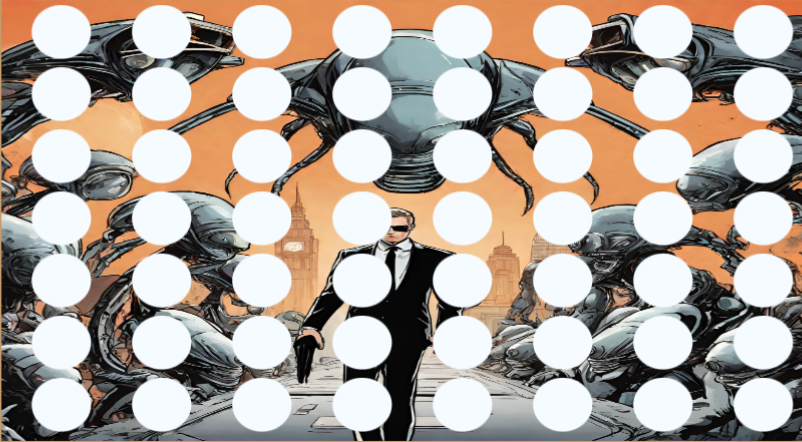
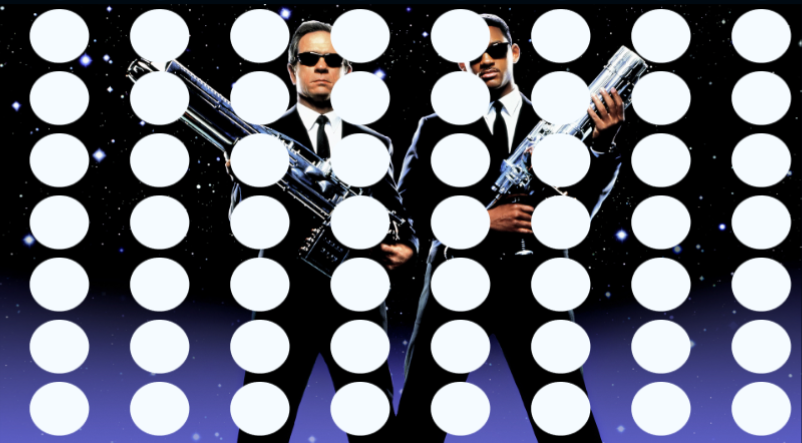
avanzando en el front

diff --git a/TP3/EntregaFinal/juego.html b/TP3/EntregaFinal/juego.html
@@ -118,16 +118,16 @@
                                             <button class="btn-danger" id="reiniciar">Reiniciar el juego</button>
                                             <button class="btn-sucess" id="continuar">No, seguir jugando</button>
                                         </div>
-                                     
                                     </div>
+                                    
                                     <div class="hidden colorblanco modosJuego" id="modoJuegoElegir">
-                                        <h1 class="h1">Elegi que tablero vas a usar</h1>
+                                        <h1 class="h1 resaltado">Elegi que tablero vas a usar</h1>
 
                                         <div class="elegirtableros">
-                                            <div> <h2 class="h2">4 en linea</h2> </div>
-                                            <div> <h2 class="h2">5 en linea</h2> </div>
-                                            <div> <h2 class="h2">6 en linea</h2> </div>
-                                            <div> <h2 class="h2">7 en linea</h2> </div>
+                                            <div> <h2 class="h2 resaltado">4 en linea</h2> </div>
+                                            <div> <h2 class="h2 resaltado">5 en linea</h2> </div>
+                                            <div> <h2 class="h2 resaltado">6 en linea</h2> </div>
+                                            <div> <h2 class="h2 resaltado">7 en linea</h2> </div>
                                         </div>
                                         
                                         <div class="elegirtablerosimg">
@@ -139,11 +139,13 @@
                                        
                                     </div>
                                 <div class="elegirpersonajes colorblanco fichasElegir" id="elegirpersonajes">
-                                        <h1 class="h1">4 en linea Men In Black</h1>
-                                        <div><h1 class="h1">Elijan sus personajes:</h1></div>
+                                        
+                                    <div class="divbackground">
+                                        <h1 class="h1 resaltado">4 en linea Men In Black</h1>
+                                        <div><h1 class="h1 resaltado">Elijan sus personajes:</h1></div>
                                         
                                             <div class="elegirJugador">
-                                                <h1 class="h1 jugador">Jugador 1</h1>
+                                                <h1 class="h1 jugador resaltado">Jugador 1</h1>
                                                 <div class="elegirjugadordiv">
                                                     <div class="imgfichas"><img src="imgs/fichas/men1.png" id="imgFicha" alt="Hombre de negro"></div> 
                                                     <div class="imgfichas"><img src="imgs/fichas/will.png" id="imgFicha" alt="Hombre de negro"></div> 
@@ -153,7 +155,7 @@
                                             </div>
                                         
                                             <div class="elegirJugador">
-                                                <h1 class="h1 jugador">Jugador 2</h1>
+                                                <h1 class="h1 jugador resaltado">Jugador 2</h1>
                                                 <div class="elegirjugadordiv">
                                                     <div class="imgfichas"><img src="imgs/fichas/CirculoAlien1.png" id="imgFicha" alt="Alien"></div> 
                                                     <div class="imgfichas"><img src="imgs/fichas/alien.png" id="imgFicha" alt="Alien"></div>
@@ -161,10 +163,11 @@
                                                     <div class="imgfichas"><img src="imgs/fichas/alienmib.png" id="imgFicha" alt="Alien"> </div>
                                                 </div>    
                                             </div>
-                                            
+                                    </div>
                                 </div>
-                            </div>
-                            
+                                <div class="opacidad">dsklkldfjdskljfdskljf</div>
+                             </div>
+                         </div>   
                         </section>
 
                         

diff --git a/TP3/EntregaFinal/js/juego/Juego.js b/TP3/EntregaFinal/js/juego/Juego.js
@@ -68,8 +68,10 @@ let rutajug1 = "imgs/fichas/men.png";  //imagenes por defecto
 let rutajug2= "imgs/fichas/CirculoAlien1.png";  //imagenes por defecto
 //imagen de tablero
 
-let rutaTablero = "imgs/MIBfondo/imagenTablero.png";
-let colorCanvas = "#805130";
+let rutaTablero = "imgs/MIBfondo/mib.jpg";
+
+// let colorCanvas = "#805130";
+let colorCanvas = "#000911";
 let imagenTablero = new Image();
 imagenTablero.src = rutaTablero;
 
@@ -92,7 +94,7 @@ function drawTablero(){
     let altura = heightTablero;
 
     //dibuja
-   context.drawImage(imagenTablero, 550 - ancho / 2, 280 - altura / 2, ancho, altura);
+    context.drawImage(imagenTablero, 550 - ancho / 2, 280 - altura / 2, ancho, altura);
 }
 
 
@@ -116,10 +118,10 @@ function seleccionarPersonajes(){
                         elegirpersonajes.classList.remove("elegirpersonajes");
                         elegirpersonajes.classList.add("hidden");
                         modoJuego.classList.remove("hidden");
-                        modoJuego.classList.add("elegirpersonajes");
+                        modoJuego.classList.add("tablerojuego");
                         modoJuego.classList.add("modosJuego");
-                        contadortimer.classList.remove("hidden");
-                        contadortimer.classList.add("timer");
+                        // contadortimer.classList.remove("hidden");
+                        // contadortimer.classList.add("timer");
 
                         minutos = 0;
                         segundos = 0;
@@ -144,7 +146,8 @@ function cargarJuego(){
         if(mensaje == " ") {
             timer();
         }
-       
+        contadortimer.classList.remove("hidden");
+        contadortimer.classList.add("timer");
         crearXenLinea(7,6,4,28,70,110,
             20,21,60);
             clearCanvas();
@@ -152,8 +155,6 @@ function cargarJuego(){
             rellenarTablero();
             crearPosicionesFicha();
             crearTodasFichas();
-
-            console.log(fichas.length);
     } );
     
     btn5enlinea.addEventListener('click', function(){
@@ -161,13 +162,15 @@ function cargarJuego(){
         if(mensaje == " ") {
             timer();
         }
+        contadortimer.classList.remove("hidden");
+        contadortimer.classList.add("timer");
         crearXenLinea(8,7,5,25,62,100,15,28,60);
         clearCanvas();
         drawTablero();
         rellenarTablero();
         crearPosicionesFicha();
         crearTodasFichas();
-        console.log(fichas.length);
+
     });
     
     btn6enlinea.addEventListener('click', function (){
@@ -175,13 +178,15 @@ function cargarJuego(){
         if(mensaje == " ") {
             timer();
         }
+        contadortimer.classList.remove("hidden");
+        contadortimer.classList.add("timer");
         crearXenLinea(9,8,6,18,55,88,12,36,55);
         clearCanvas();
         drawTablero();
         rellenarTablero();
         crearPosicionesFicha();
         crearTodasFichas();
-        console.log(fichas.length);
+
     });
     
     btn7enlinea.addEventListener('click', function (){
@@ -189,13 +194,14 @@ function cargarJuego(){
         if(mensaje == " ") {
             timer();
         }
+        contadortimer.classList.remove("hidden");
+        contadortimer.classList.add("timer");
         crearXenLinea(10,9,7,20,49.5,80,9.5,45,42);
         clearCanvas();
         drawTablero();
         rellenarTablero();
         crearPosicionesFicha();
         crearTodasFichas();
-        console.log(fichas.length);
     });
 }
 
@@ -754,7 +760,9 @@ function encontrarFila(columna) {
 
 
 function clearCanvas(){
-    context.fillStyle = "#C79A6B";
+
+    // context.fillStyle = "#C79A6B";
+    context.fillStyle = "#000911";
     context.fillRect(0,0,canvasWidth,canvasHeight);
 }
 

diff --git a/TP3/EntregaFinal/css/style.css b/TP3/EntregaFinal/css/style.css
@@ -2663,14 +2663,9 @@ button {
     height: auto;
 }
 
-.modosJuego {
-    bottom: -6.85em;
-    height: 528px;
-    position: absolute;
-}
 
 .elegirpersonajes{
-    background-image: url('../imgs/MIBfondo/fondoeleg.png');
+    background-image: url('../imgs/MIBfondo/mibprueba.png');
     background-size: cover;
     background-repeat: no-repeat;
     width: 100%;
@@ -2679,8 +2674,26 @@ button {
     display: flex;
     flex-direction: column; 
     align-items: center; 
-
 }
+
+.tablerojuego{
+    background-image: url('../imgs/MIBfondo/mibprueba.png');
+    background-size: cover;
+    background-repeat: no-repeat;
+    width: 100%;
+    height: 32em;
+    margin-top:200px;
+    display: flex;
+    flex-direction: column; 
+    align-items: center;
+}
+
+.modosJuego {
+    bottom: -7em;
+    height: 528px;
+    position: absolute;
+}
+
 .elegirpersonajes div {
     display: flex; 
     justify-content: center; 
@@ -2703,7 +2716,7 @@ button {
 
 .fichasElegir {
     position: absolute;
-    bottom: -9em;
+    bottom: -6.85em;
     height: 528px;
 }
 .jugador {
@@ -2728,6 +2741,7 @@ button {
     align-items:center ;
 }
 .elegirtablerosimg{
+
     display: flex;
     align-items: center;
     justify-content:  center;
@@ -2741,5 +2755,17 @@ button {
 .h2 {
     font-size: larger;
     margin-bottom: 0;
+
+}
+.divbackground {
+    display: flex;
+    flex-direction: column;
+    background-color: rgba(0, 13, 26, 0.3);  
+    height: 30em;
+    width: auto;
 }
 
+.resaltado{
+    color: white;
+    text-shadow: 1px 1px 2px var(--acento-luz), 0 0 1em var(--acento), 0 0 0.2em var(--prim-luz2);
+}

diff --git a/TP3/EntregaFinal/js/juego/Ficha.js b/TP3/EntregaFinal/js/juego/Ficha.js
@@ -118,7 +118,7 @@ class Ficha {
 
     drawStroke(){
         this.context.beginPath();   
-        this.context.strokeStyle = "#00FF00";
+        this.context.strokeStyle = "#0A5499";
         this.context.lineWidth=1;
         this.context.arc(this.posX, this.posY, this.radio, 0, 2 * Math.PI);
         this.context.stroke();
